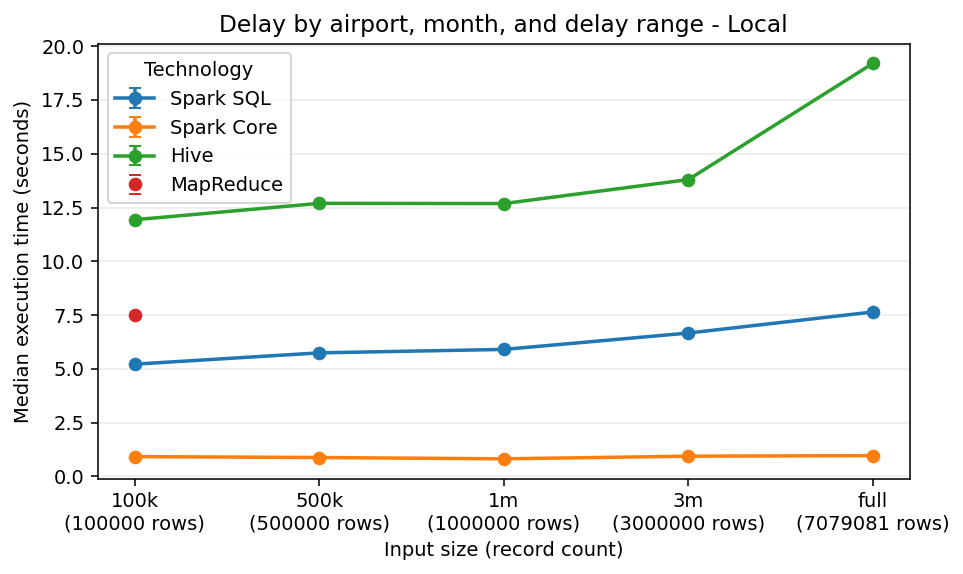
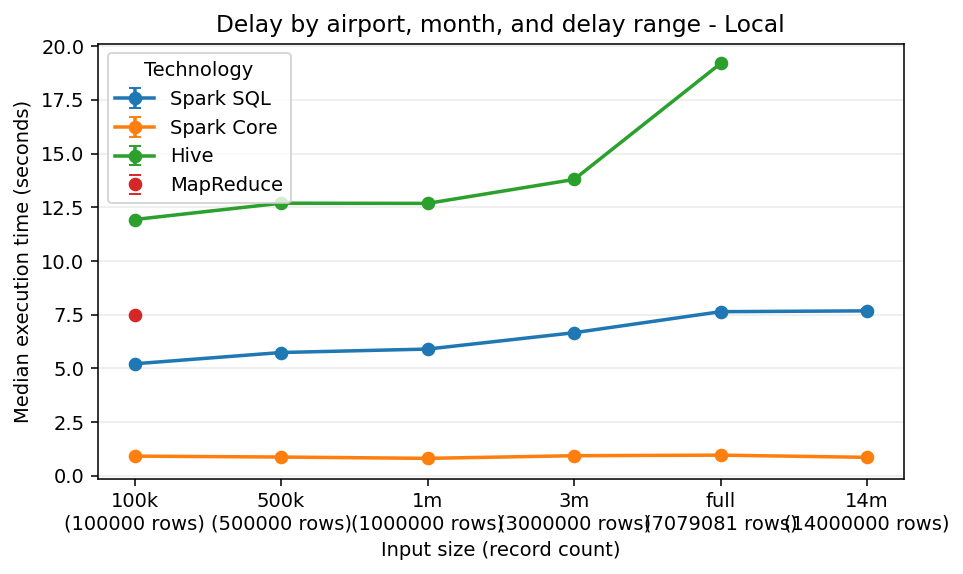
Complete M3 large input scalability evidence
- add filtered large-input generation via --large-label
- wire LARGE_LABEL through the Makefile
- generate and validate 14m controlled-replication input
- add 14m Spark SQL and Spark Core benchmark evidence
- refresh report tables, figures, and PDF
- document replicated-input scalability rationale
- mark M3 roadmap items complete

diff --git a/src/preparation/generate_input_sizes.py b/src/preparation/generate_input_sizes.py
@@ -46,10 +46,19 @@ class ReplicationPlan:
     remainder_records: int
 
 
-def selected_size_specs(include_large: bool) -> list[SizeSpec]:
+def selected_size_specs(include_large: bool, large_labels: set[str] | None = None) -> list[SizeSpec]:
     specs = [SizeSpec(label, records) for label, records in DEFAULT_SIZE_SPECS]
     if include_large:
-        specs.extend(SizeSpec(label, records) for label, records in LARGE_SIZE_SPECS)
+        available_large = {label for label, _ in LARGE_SIZE_SPECS}
+        if large_labels:
+            unknown = sorted(large_labels - available_large)
+            if unknown:
+                raise ValueError(f"Unknown large input label(s): {', '.join(unknown)}")
+        specs.extend(
+            SizeSpec(label, records)
+            for label, records in LARGE_SIZE_SPECS
+            if not large_labels or label in large_labels
+        )
     return specs
 
 
@@ -370,7 +379,13 @@ def manifest_entry(
     return entry
 
 
-def generate_manifest(config_path: Path, seed: int, force: bool, include_large: bool) -> dict[str, Any]:
+def generate_manifest(
+    config_path: Path,
+    seed: int,
+    force: bool,
+    include_large: bool,
+    large_labels: set[str] | None = None,
+) -> dict[str, Any]:
     from src.common.prepared_data import read_prepared_parquet
     from src.common.runtime import ensure_java_17
 
@@ -416,7 +431,7 @@ def generate_manifest(config_path: Path, seed: int, force: bool, include_large: 
         validate_manifest_entry(full_entry)
         entries.append(full_entry)
 
-        for spec in selected_size_specs(include_large):
+        for spec in selected_size_specs(include_large, large_labels):
             output_path = generated_dir / f"flights_{spec.label}.parquet"
             if spec.records <= base_records:
                 method = "deterministic_hash_limit"
@@ -480,6 +495,7 @@ def generate_manifest(config_path: Path, seed: int, force: bool, include_large: 
         "source_path": display_path(prepared_path),
         "seed": seed,
         "include_large": include_large,
+        "large_labels": sorted(large_labels) if large_labels else [],
         "datasets": entries,
     }
 
@@ -498,6 +514,11 @@ def parse_args(argv: list[str] | None = None) -> argparse.Namespace:
     parser.add_argument("--seed", type=int, default=DEFAULT_SEED, help="Seed for deterministic hash-limited subsets.")
     parser.add_argument("--force", action="store_true", help="Replace existing generated datasets.")
     parser.add_argument("--include-large", action="store_true", help="Also generate optional 14M and 28M datasets.")
+    parser.add_argument(
+        "--large-label",
+        action="append",
+        help="Optional large input label to generate when --include-large is set. Repeat to select multiple labels.",
+    )
     return parser.parse_args(argv)
 
 
@@ -509,11 +530,16 @@ def main(argv: list[str] | None = None) -> int:
 
     local_config = load_yaml(config_path)
     generated_dir = resolve_project_path(str(local_config.get("paths", {}).get("generated_dir", "data/generated")))
+    large_labels = set(args.large_label or [])
+    if large_labels and not args.include_large:
+        print("# --large-label requires --include-large.", file=sys.stderr)
+        return 1
     manifest = generate_manifest(
         config_path=config_path,
         seed=args.seed,
         force=args.force,
         include_large=args.include_large,
+        large_labels=large_labels,
     )
     manifest_path = write_manifest(manifest, generated_dir)
 

diff --git a/tests/test_generate_input_sizes.py b/tests/test_generate_input_sizes.py
@@ -45,6 +45,23 @@ def test_selected_size_specs_includes_large_when_requested():
     ]
 
 
+def test_selected_size_specs_filters_large_labels_when_requested():
+    specs = selected_size_specs(include_large=True, large_labels={"14m"})
+
+    assert [(spec.label, spec.records) for spec in specs] == [
+        ("100k", 100_000),
+        ("500k", 500_000),
+        ("1m", 1_000_000),
+        ("3m", 3_000_000),
+        ("14m", 14_000_000),
+    ]
+
+
+def test_selected_size_specs_rejects_unknown_large_label():
+    with pytest.raises(ValueError, match="Unknown large input label"):
+        selected_size_specs(include_large=True, large_labels={"56m"})
+
+
 def test_replication_plan_for_optional_large_inputs():
     base_records = 7_079_081
 
@@ -248,3 +265,10 @@ spark:
 
     with pytest.raises(ValueError, match="Re-run with --force"):
         generate_manifest(config_path, DEFAULT_SEED + 1, force=False, include_large=False)
+
+
+def test_makefile_wires_large_label_filter():
+    makefile = generate_input_sizes.PROJECT_ROOT.joinpath("Makefile").read_text(encoding="utf-8")
+
+    assert "LARGE_LABEL" in makefile
+    assert "--large-label $(label)" in makefile

diff --git a/report/draft_final_report.md b/report/draft_final_report.md
@@ -157,12 +157,21 @@ The input-size generator creates controlled benchmark inputs under
 - `1m`
 - `3m`
 - `full`
+- `14m`
 
 Smaller inputs are selected with a deterministic hash-based method using seed
 `20240520`. This avoids chronological bias from simply taking the first rows of
-the CSV. Optional larger inputs, such as `14m` and `28m`, can be generated by
-controlled replication when explicitly requested, but they were not required
-for the current report artifacts.
+the CSV. The `14m` input was generated and validated with controlled
+replication: one complete repetition of the canonical prepared dataset plus a
+deterministic sampled remainder of `6,920,919` rows. The output keeps the same
+prepared schema, and no synthetic columns or schema changes are retained.
+
+This replicated larger input is valid scalability evidence because it increases
+data volume while preserving the canonical row shape, column types, null
+behavior, and analysis semantics used by the original prepared dataset. It is
+not treated as new statistical evidence about flight behavior; it is used only
+to test how the implementations respond to a larger input volume. The optional
+`28m` input remains stretch evidence and was deferred for this milestone.
 
 # Analyses And Implementations
 
@@ -400,14 +409,17 @@ without slowing the required default benchmark matrix:
 | Environment | Inputs | Technologies | Jobs | Status |
 | --- | --- | --- | --- | --- |
 | Local | `100k`, `500k`, `1m`, `3m`, `full` | Spark SQL, Spark Core, Hive | both jobs | 30/30 successful |
+| Local M3 large input | `14m` | Spark SQL, Spark Core | both jobs | 12/12 successful |
 | Docker standalone simulation | `100k`, `500k`, `1m` | Spark SQL, Spark Core, Hive | both jobs | 18/18 successful |
 | Local stretch | `100k` | Hadoop Streaming MapReduce | both jobs | 2/2 successful |
 
 The local run ID is `20260521T153035251181Z`. The Docker standalone simulation
 run ID is `20260521T160042313560Z`. The MapReduce smoke run ID is
-`20260521T153912538439Z`. These legacy campaigns are represented as one-run
+`20260521T153912538439Z`. The M3 `14m` run ID is
+`20260521T220744784794Z`. These legacy campaigns are represented as one-run
 aggregate rows until the benchmark matrix is regenerated with the M2 default
-repetition count. The full status matrix is stored in
+repetition count; the `14m` Spark SQL and Spark Core rows use three repetitions.
+The full status matrix is stored in
 `report/tables/benchmark_status.md`.
 
 ## Benchmark Pivot
@@ -434,6 +446,8 @@ artifacts also include the optional MapReduce smoke columns when present.
 | local | 3m | 3000000 | delay_by_airport_month | 6.662 | 0.935 | 13.797 |
 | local | full | 7079081 | airline_airport_ranking | 2.33 | 0.583 | 12.382 |
 | local | full | 7079081 | delay_by_airport_month | 7.641 | 0.962 | 19.2 |
+| local | 14m | 14000000 | airline_airport_ranking | 2.241 | 0.564 |  |
+| local | 14m | 14000000 | delay_by_airport_month | 7.68 | 0.859 |  |
 
 ## Rows Per Second
 
@@ -460,6 +474,8 @@ slightly.
 | local | 3m | delay_by_airport_month | 450294.74 | 3207389.826 | 217435.311 |
 | local | full | airline_airport_ranking | 3038232.189 | 12144151.609 | 571725.628 |
 | local | full | delay_by_airport_month | 926412.613 | 7357534.241 | 368709.471 |
+| local | 14m | airline_airport_ranking | 6247855.089 | 24825820.272 |  |
+| local | 14m | delay_by_airport_month | 1823023.01 | 16295744.483 |  |
 
 ## Speedup Ratios
 

diff --git a/report/tables/first_10_spark_core_airline_airport_ranking.md b/report/tables/first_10_spark_core_airline_airport_ranking.md
@@ -1,12 +1,12 @@
 | origin_airport | airline | flight_count | avg_departure_delay | avg_arrival_delay | cancellation_rate | airport_avg_departure_delay | difference_from_airport_avg_departure_delay | rank_at_airport |
 | --- | --- | --- | --- | --- | --- | --- | --- | --- |
-| ABE | 9E | 140 | 10.234 | 0.445 | 0.021 | 14.606 | -4.373 | 1 |
-| ABE | G4 | 260 | 12.463 | 4.337 | 0.012 | 14.606 | -2.143 | 2 |
-| ABE | OH | 159 | 19.38 | 6.867 | 0.006 | 14.606 | 4.774 | 3 |
-| ABE | OO | 40 | 25.297 | 14.389 | 0.075 | 14.606 | 10.691 | 4 |
-| ABI | MQ | 249 | 6.664 | 4.405 | 0.008 | 6.664 | 0 | 1 |
-| ABQ | DL | 218 | 1.383 | -5.15 | 0.018 | 8.792 | -7.409 | 1 |
-| ABQ | OO | 547 | 3.617 | -0.855 | 0.004 | 8.792 | -5.176 | 2 |
-| ABQ | UA | 273 | 4.584 | -1.477 | 0.022 | 8.792 | -4.208 | 3 |
-| ABQ | MQ | 127 | 7.134 | 5.575 | 0 | 8.792 | -1.659 | 4 |
-| ABQ | AS | 67 | 7.522 | 1.881 | 0 | 8.792 | -1.27 | 5 |
+| ABE | G4 | 3626 | 8.386 | 0.582 | 0.017 | 12.019 | -3.632 | 1 |
+| ABE | 9E | 2008 | 9.126 | 0.383 | 0.014 | 12.019 | -2.892 | 2 |
+| ABE | OH | 2304 | 15.269 | 4.169 | 0.013 | 12.019 | 3.25 | 3 |
+| ABE | OO | 626 | 30.771 | 22.478 | 0.038 | 12.019 | 18.752 | 4 |
+| ABI | MQ | 3471 | 7.277 | 4.367 | 0.009 | 7.277 | 0 | 1 |
+| ABQ | DL | 3063 | 1.727 | -5.63 | 0.009 | 9.49 | -7.764 | 1 |
+| ABQ | OO | 7869 | 2.135 | -2.015 | 0.004 | 9.49 | -7.355 | 2 |
+| ABQ | MQ | 1797 | 5.325 | 3.278 | 0.006 | 9.49 | -4.165 | 3 |
+| ABQ | UA | 3600 | 5.469 | -0.327 | 0.011 | 9.49 | -4.021 | 4 |
+| ABQ | AS | 835 | 8.139 | 4.212 | 0.01 | 9.49 | -1.352 | 5 |

diff --git a/report/tables/first_10_spark_core_delay_by_airport_month.md b/report/tables/first_10_spark_core_delay_by_airport_month.md
@@ -1,12 +1,12 @@
 | origin_airport | month | delay_range | flight_count | avg_departure_delay | avg_arrival_delay | top_1_cause | top_1_count | top_2_cause | top_2_count | top_3_cause | top_3_count |
 | --- | --- | --- | --- | --- | --- | --- | --- | --- | --- | --- | --- |
-| ABE | 1 | high | 8 | 231.5 | 221.375 | delay:carrier | 3 | delay:late_aircraft | 3 | delay:nas | 2 |
-| ABE | 1 | low | 35 | -6.286 | -19.629 | unknown | 34 | delay:nas | 1 |  | 0 |
-| ABE | 1 | medium | 4 | 32.75 | 31.25 | delay:late_aircraft | 2 | delay:carrier | 1 | delay:nas | 1 |
-| ABE | 2 | high | 3 | 324 | 335.667 | delay:late_aircraft | 1 | delay:nas | 1 | delay:weather | 1 |
-| ABE | 2 | low | 40 | -8.5 | -23.575 | unknown | 39 | delay:nas | 1 |  | 0 |
-| ABE | 2 | medium | 4 | 45.5 | 29.333 | unknown | 2 | delay:carrier | 1 | delay:late_aircraft | 1 |
-| ABE | 3 | high | 8 | 127 | 121.625 | delay:carrier | 3 | delay:late_aircraft | 3 | delay:nas | 2 |
-| ABE | 3 | low | 41 | -4.756 | -16.39 | unknown | 40 | delay:nas | 1 |  | 0 |
-| ABE | 3 | medium | 3 | 32.333 | 12.667 | unknown | 2 | delay:carrier | 1 |  | 0 |
-| ABE | 4 | high | 6 | 158.333 | 150.333 | delay:carrier | 4 | delay:late_aircraft | 2 |  | 0 |
+| ABE | 1 | high | 58 | 239.397 | 232.241 | delay:late_aircraft | 27 | delay:carrier | 23 | delay:nas | 4 |
+| ABE | 1 | low | 548 | -5.5 | -14.631 | unknown | 507 | delay:nas | 39 | delay:carrier | 2 |
+| ABE | 1 | medium | 62 | 34.323 | 32.5 | delay:late_aircraft | 24 | delay:carrier | 16 | unknown | 14 |
+| ABE | 2 | high | 28 | 227.929 | 217.929 | delay:carrier | 12 | delay:late_aircraft | 12 | delay:nas | 2 |
+| ABE | 2 | low | 587 | -6.727 | -19.626 | unknown | 563 | delay:nas | 20 | delay:carrier | 2 |
+| ABE | 2 | medium | 39 | 29.872 | 10.73 | unknown | 23 | delay:carrier | 10 | delay:late_aircraft | 6 |
+| ABE | 3 | high | 46 | 173.435 | 163.391 | delay:carrier | 18 | delay:late_aircraft | 16 | delay:nas | 12 |
+| ABE | 3 | low | 669 | -6.179 | -18.369 | unknown | 655 | delay:nas | 14 |  | 0 |
+| ABE | 3 | medium | 55 | 30.218 | 19.636 | unknown | 26 | delay:late_aircraft | 14 | delay:nas | 8 |
+| ABE | 4 | high | 55 | 248.127 | 240.473 | delay:carrier | 29 | delay:late_aircraft | 14 | delay:nas | 8 |

diff --git a/report/tables/first_10_spark_sql_airline_airport_ranking.md b/report/tables/first_10_spark_sql_airline_airport_ranking.md
@@ -1,12 +1,12 @@
 | origin_airport | airline | flight_count | avg_departure_delay | avg_arrival_delay | cancellation_rate | airport_avg_departure_delay | difference_from_airport_avg_departure_delay | rank_at_airport |
 | --- | --- | --- | --- | --- | --- | --- | --- | --- |
-| ABE | 9E | 140 | 10.234 | 0.445 | 0.021 | 14.606 | -4.373 | 1 |
-| ABE | G4 | 260 | 12.463 | 4.337 | 0.012 | 14.606 | -2.143 | 2 |
-| ABE | OH | 159 | 19.38 | 6.867 | 0.006 | 14.606 | 4.774 | 3 |
-| ABE | OO | 40 | 25.297 | 14.389 | 0.075 | 14.606 | 10.691 | 4 |
-| ABI | MQ | 249 | 6.664 | 4.405 | 0.008 | 6.664 | 0 | 1 |
-| ABQ | DL | 218 | 1.383 | -5.15 | 0.018 | 8.792 | -7.409 | 1 |
-| ABQ | OO | 547 | 3.617 | -0.855 | 0.004 | 8.792 | -5.176 | 2 |
-| ABQ | UA | 273 | 4.584 | -1.477 | 0.022 | 8.792 | -4.208 | 3 |
-| ABQ | MQ | 127 | 7.134 | 5.575 | 0 | 8.792 | -1.659 | 4 |
-| ABQ | AS | 67 | 7.522 | 1.881 | 0 | 8.792 | -1.27 | 5 |
+| ABE | G4 | 3626 | 8.386 | 0.582 | 0.017 | 12.019 | -3.632 | 1 |
+| ABE | 9E | 2008 | 9.126 | 0.383 | 0.014 | 12.019 | -2.892 | 2 |
+| ABE | OH | 2304 | 15.269 | 4.169 | 0.013 | 12.019 | 3.25 | 3 |
+| ABE | OO | 626 | 30.771 | 22.478 | 0.038 | 12.019 | 18.752 | 4 |
+| ABI | MQ | 3471 | 7.277 | 4.367 | 0.009 | 7.277 | 0 | 1 |
+| ABQ | DL | 3063 | 1.727 | -5.63 | 0.009 | 9.49 | -7.764 | 1 |
+| ABQ | OO | 7869 | 2.135 | -2.015 | 0.004 | 9.49 | -7.355 | 2 |
+| ABQ | MQ | 1797 | 5.325 | 3.278 | 0.006 | 9.49 | -4.165 | 3 |
+| ABQ | UA | 3600 | 5.469 | -0.327 | 0.011 | 9.49 | -4.021 | 4 |
+| ABQ | AS | 835 | 8.139 | 4.212 | 0.01 | 9.49 | -1.352 | 5 |

diff --git a/report/tables/first_10_spark_sql_delay_by_airport_month.md b/report/tables/first_10_spark_sql_delay_by_airport_month.md
@@ -1,12 +1,12 @@
 | origin_airport | month | delay_range | flight_count | avg_departure_delay | avg_arrival_delay | top_1_cause | top_1_count | top_2_cause | top_2_count | top_3_cause | top_3_count |
 | --- | --- | --- | --- | --- | --- | --- | --- | --- | --- | --- | --- |
-| ABE | 1 | high | 8 | 231.5 | 221.375 | delay:carrier | 3 | delay:late_aircraft | 3 | delay:nas | 2 |
-| ABE | 1 | low | 35 | -6.286 | -19.629 | unknown | 34 | delay:nas | 1 |  | 0 |
-| ABE | 1 | medium | 4 | 32.75 | 31.25 | delay:late_aircraft | 2 | delay:carrier | 1 | delay:nas | 1 |
-| ABE | 2 | high | 3 | 324 | 335.667 | delay:late_aircraft | 1 | delay:nas | 1 | delay:weather | 1 |
-| ABE | 2 | low | 40 | -8.5 | -23.575 | unknown | 39 | delay:nas | 1 |  | 0 |
-| ABE | 2 | medium | 4 | 45.5 | 29.333 | unknown | 2 | delay:carrier | 1 | delay:late_aircraft | 1 |
-| ABE | 3 | high | 8 | 127 | 121.625 | delay:carrier | 3 | delay:late_aircraft | 3 | delay:nas | 2 |
-| ABE | 3 | low | 41 | -4.756 | -16.39 | unknown | 40 | delay:nas | 1 |  | 0 |
-| ABE | 3 | medium | 3 | 32.333 | 12.667 | unknown | 2 | delay:carrier | 1 |  | 0 |
-| ABE | 4 | high | 6 | 158.333 | 150.333 | delay:carrier | 4 | delay:late_aircraft | 2 |  | 0 |
+| ABE | 1 | high | 58 | 239.397 | 232.241 | delay:late_aircraft | 27 | delay:carrier | 23 | delay:nas | 4 |
+| ABE | 1 | low | 548 | -5.5 | -14.631 | unknown | 507 | delay:nas | 39 | delay:carrier | 2 |
+| ABE | 1 | medium | 62 | 34.323 | 32.5 | delay:late_aircraft | 24 | delay:carrier | 16 | unknown | 14 |
+| ABE | 2 | high | 28 | 227.929 | 217.929 | delay:carrier | 12 | delay:late_aircraft | 12 | delay:nas | 2 |
+| ABE | 2 | low | 587 | -6.727 | -19.626 | unknown | 563 | delay:nas | 20 | delay:carrier | 2 |
+| ABE | 2 | medium | 39 | 29.872 | 10.73 | unknown | 23 | delay:carrier | 10 | delay:late_aircraft | 6 |
+| ABE | 3 | high | 46 | 173.435 | 163.391 | delay:carrier | 18 | delay:late_aircraft | 16 | delay:nas | 12 |
+| ABE | 3 | low | 669 | -6.179 | -18.369 | unknown | 655 | delay:nas | 14 |  | 0 |
+| ABE | 3 | medium | 55 | 30.218 | 19.636 | unknown | 26 | delay:late_aircraft | 14 | delay:nas | 8 |
+| ABE | 4 | high | 55 | 248.127 | 240.473 | delay:carrier | 29 | delay:late_aircraft | 14 | delay:nas | 8 |

diff --git a/ROADMAP.md b/ROADMAP.md
@@ -138,17 +138,17 @@ material.
 
 **Goal:** improve scalability evidence beyond the original 7M-row dataset.
 
-- [ ] Generate and validate `14m` with the existing controlled replication
+- [x] Generate and validate `14m` with the existing controlled replication
       support.
-- [ ] Attempt `28m` only if local storage, runtime, and AWS budget remain
+- [x] Attempt `28m` only if local storage, runtime, and AWS budget remain
       reasonable.
-- [ ] Document the replication method:
+- [x] Document the replication method:
   - no synthetic schema changes
   - controlled full-dataset repetition
   - deterministic sampled remainder
   - same prepared schema as the canonical input
-- [ ] Include at least `14m` in the local benchmark matrix if feasible.
-- [ ] Use `28m` only as optional stretch evidence.
+- [x] Include at least `14m` in the local benchmark matrix if feasible.
+- [x] Use `28m` only as optional stretch evidence.
 
 **Acceptance criteria:**
 

diff --git a/docs/data_preparation.md b/docs/data_preparation.md
@@ -217,6 +217,13 @@ Optional larger datasets are generated only when explicitly requested:
 make generate-sizes GENERATE_LARGE=1 FORCE=1
 ```
 
+To generate only the required M3 large input without also creating the optional
+`28m` stretch dataset, filter the optional set:
+
+```powershell
+make generate-sizes GENERATE_LARGE=1 LARGE_LABEL=14m FORCE=1
+```
+
 For targets larger than the prepared source, the generator uses controlled
 replication: it writes as many full source repetitions as fit in the target,
 then adds a deterministic sampled remainder. For the current `7,079,081`-row

diff --git a/README.md b/README.md
@@ -285,7 +285,12 @@ Replace existing generated inputs or opt into the larger replicated datasets:
 ```bash
 make generate-sizes FORCE=1
 make generate-sizes GENERATE_LARGE=1 FORCE=1
+make generate-sizes GENERATE_LARGE=1 LARGE_LABEL=14m FORCE=1
 ```
+
+`LARGE_LABEL` can be used to generate only selected optional large inputs. This
+is the recommended M3 command for producing the required `14m` dataset without
+also producing the optional `28m` stretch input.
 
 Generation writes `data/generated/input_size_manifest.json` with the validated
 row count, generation method, seed, source path, and reuse status for every

diff --git a/report/tables/benchmark_status.md b/report/tables/benchmark_status.md
@@ -50,3 +50,7 @@
 | local | full | 7079081 | delay_by_airport_month | Hive | success | 19.199618 | 11902 |  |  | 2026-05-21T15:30:35.251181+00:00 | benchmark_20260521T153035251181Z.csv |
 | local | full | 7079081 | delay_by_airport_month | Spark Core | success | 0.962154 | 11902 |  |  | 2026-05-21T15:30:35.251181+00:00 | benchmark_20260521T153035251181Z.csv |
 | local | full | 7079081 | delay_by_airport_month | Spark SQL | success | 7.641391 | 11902 |  |  | 2026-05-21T15:30:35.251181+00:00 | benchmark_20260521T153035251181Z.csv |
+| local | 14m | 14000000 | airline_airport_ranking | Spark Core | success | 0.562403 | 1738 |  | 20260521T220744784794Z | 2026-05-21T22:07:44.784794+00:00 | benchmark_20260521T220744784794Z.csv |
+| local | 14m | 14000000 | airline_airport_ranking | Spark SQL | success | 2.366958 | 1738 |  | 20260521T220744784794Z | 2026-05-21T22:07:44.784794+00:00 | benchmark_20260521T220744784794Z.csv |
+| local | 14m | 14000000 | delay_by_airport_month | Spark Core | success | 0.85912 | 11902 |  | 20260521T220744784794Z | 2026-05-21T22:07:44.784794+00:00 | benchmark_20260521T220744784794Z.csv |
+| local | 14m | 14000000 | delay_by_airport_month | Spark SQL | success | 7.679552 | 11902 |  | 20260521T220744784794Z | 2026-05-21T22:07:44.784794+00:00 | benchmark_20260521T220744784794Z.csv |

diff --git a/report/tables/benchmark_summary.md b/report/tables/benchmark_summary.md
@@ -50,3 +50,7 @@
 | local | full | 7079081 | delay_by_airport_month | Hive | 1 | 19.2 | 19.2 | 19.2 | 19.2 |  | 11902 |  | 2026-05-21T15:30:35.251181+00:00 |
 | local | full | 7079081 | delay_by_airport_month | Spark Core | 1 | 0.962 | 0.962 | 0.962 | 0.962 |  | 11902 |  | 2026-05-21T15:30:35.251181+00:00 |
 | local | full | 7079081 | delay_by_airport_month | Spark SQL | 1 | 7.641 | 7.641 | 7.641 | 7.641 |  | 11902 |  | 2026-05-21T15:30:35.251181+00:00 |
+| local | 14m | 14000000 | airline_airport_ranking | Spark Core | 3 | 0.564 | 0.572 | 0.562 | 0.589 | 0.015 | 1738 | 20260521T220744784794Z | 2026-05-21T22:07:44.784794+00:00 |
+| local | 14m | 14000000 | airline_airport_ranking | Spark SQL | 3 | 2.241 | 2.238 | 2.106 | 2.367 | 0.131 | 1738 | 20260521T220744784794Z | 2026-05-21T22:07:44.784794+00:00 |
+| local | 14m | 14000000 | delay_by_airport_month | Spark Core | 3 | 0.859 | 0.863 | 0.79 | 0.939 | 0.075 | 11902 | 20260521T220744784794Z | 2026-05-21T22:07:44.784794+00:00 |
+| local | 14m | 14000000 | delay_by_airport_month | Spark SQL | 3 | 7.68 | 7.68 | 7.61 | 7.752 | 0.071 | 11902 | 20260521T220744784794Z | 2026-05-21T22:07:44.784794+00:00 |